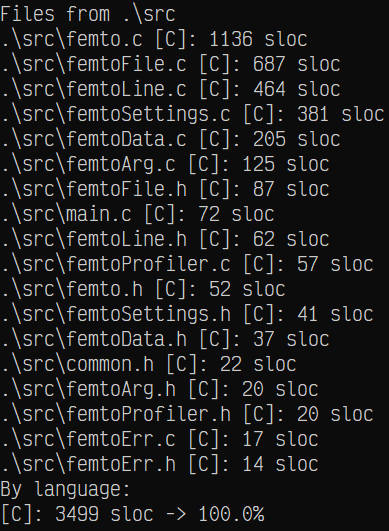
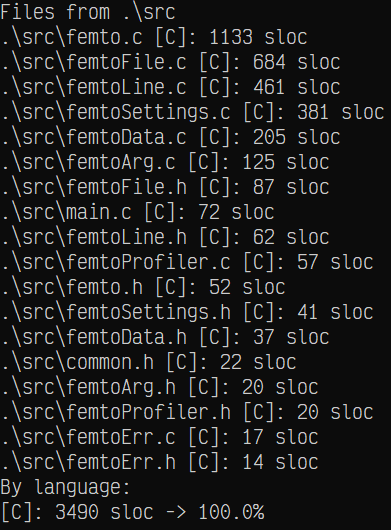
Update goals

Changed region(s): [[0.0, 0.0, 0.9871, 0.9962], [0.4319, 0.9358, 0.6787, 0.9962]]

diff --git a/README.md b/README.md
@@ -152,8 +152,9 @@ reports ~3500 source code lines (excluding whitespace, comments & [jsonlite2](ht
 # Changelog
 
 * 1.6 (planned)
+	* [x] Micro-optimisations in codebase
 	* [x] Save-as support
-	* [ ] Practical multi-file support
+	* [ ] Practical multi-file support, tabs' system
 	* [ ] Search support, also search result highlighting
 	* [ ] Syntax highlighting, supported languages:
 		* [ ] C
